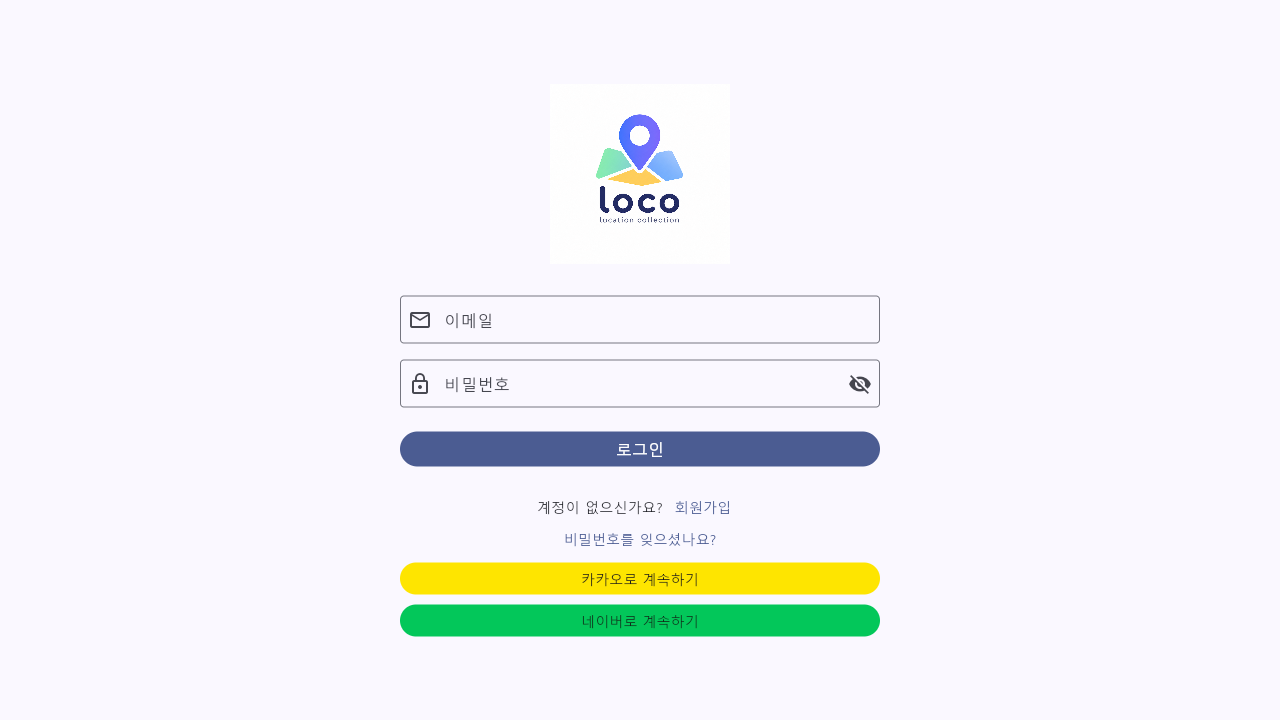
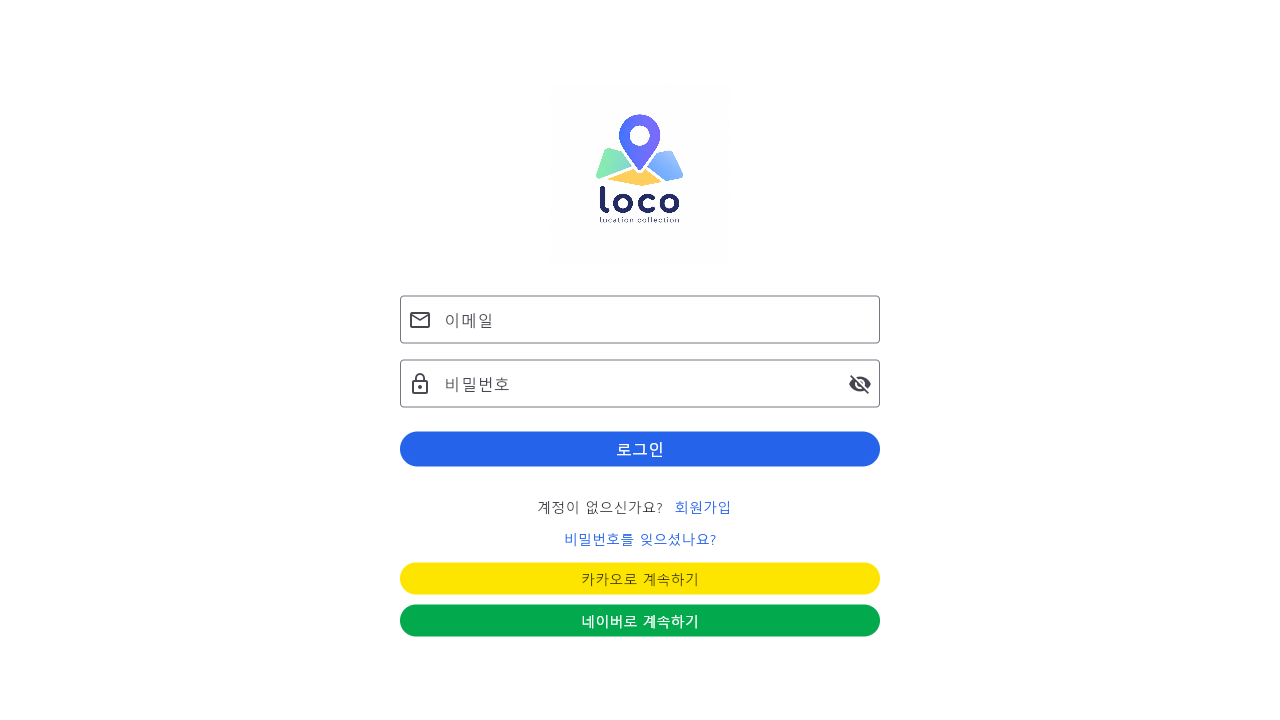
수정: 앱 브랜드 색과 소셜 버튼·지도 오류 안내 복원
ThemeData 역할을 유지하며 primary #2563EB와 흰색 surface·배경을 복원한다.
기본 버튼 대비 5.17:1을 검증하고 현재 공식 카카오·네이버 배경과 글자색을 적용한다.
네이버 3.09:1 대비는 공식 가이드 우선 예외로 문서화한다.
지도 로딩 실패의 기술적 안내는 debugPrint로만 남긴다.
Flutter after 20장만 갱신하며 before 및 CMS 캡처는 유지한다.

검증: Flutter 17 성공·0 실패, 8.72초.
analyze 오류 0·경고 0·기존 info 11, 분석 6.1초·전체 10.21초, 종료 코드 1.
JS 웹 profile 빌드 성공, 컴파일 46.9초·전체 50.05초.
캡처 픽셀에서 흰 배경·브랜드 파랑·공식 소셜 배경색 확인.
서버 소스·API 계약 변경 0건. 실제 외부 로그인·모바일 SDK 실패 경로 실기기 검증은 미실행.

Changed region(s): [[0.3125, 0.5806, 0.6875, 0.6722], [0.3125, 0.825, 0.6875, 0.8861], [0.4375, 0.7333, 0.5625, 0.7639]]

diff --git a/apps/mobile/lib/features/auth/screens/login_screen.dart b/apps/mobile/lib/features/auth/screens/login_screen.dart
@@ -182,12 +182,12 @@ class _LoginScreenState extends ConsumerState<LoginScreen> {
                                       padding: const EdgeInsets.symmetric(
                                           vertical: 13),
                                       backgroundColor: const Color(0xFFFEE500),
-                                      foregroundColor: const Color(0xFF191919),
+                                      foregroundColor: const Color(0xD9000000),
                                       side: BorderSide.none,
                                     ),
                                     child: const _OAuthButtonLabel(
                                       label: '카카오로 계속하기',
-                                      color: Color(0xFF191919),
+                                      color: Color(0xD9000000),
                                     ),
                                   ),
                                   const SizedBox(height: 10),
@@ -198,13 +198,13 @@ class _LoginScreenState extends ConsumerState<LoginScreen> {
                                     style: OutlinedButton.styleFrom(
                                       padding: const EdgeInsets.symmetric(
                                           vertical: 13),
-                                      backgroundColor: const Color(0xFF03C75A),
-                                      foregroundColor: const Color(0xFF102A18),
+                                      backgroundColor: const Color(0xFF03A94D),
+                                      foregroundColor: Colors.white,
                                       side: BorderSide.none,
                                     ),
                                     child: const _OAuthButtonLabel(
                                       label: '네이버로 계속하기',
-                                      color: Color(0xFF102A18),
+                                      color: Colors.white,
                                     ),
                                   ),
                                   // TODO: Google 로그인 버튼

diff --git a/apps/mobile/lib/shared/widgets/kakao_map_widget.dart b/apps/mobile/lib/shared/widgets/kakao_map_widget.dart
@@ -64,6 +64,12 @@ class _KakaoMapWidgetState extends State<KakaoMapWidget> {
     _mobileController = WebViewController()
       ..setJavaScriptMode(JavaScriptMode.unrestricted)
       ..addJavaScriptChannel(
+        'MapLoadFailureBridge',
+        onMessageReceived: (_) {
+          debugPrint('Kakao Maps SDK script load failed. Check network, app key and registered domain.');
+        },
+      )
+      ..addJavaScriptChannel(
         'FlutterBridge',
         onMessageReceived: (msg) {
           if (widget.onMarkerTap == null) return;
@@ -420,8 +426,9 @@ class _KakaoMapWidgetState extends State<KakaoMapWidget> {
         });
       };
       script.onerror = function() {
+        MapLoadFailureBridge.postMessage('sdk-load-failed');
         document.getElementById('map').innerHTML =
-          '<div style="display:flex;align-items:center;justify-content:center;height:100%;color:#9CA3AF;font-size:14px;">지도를 불러올 수 없습니다.<br>도메인 등록을 확인하세요.</div>';
+          '<div style="display:flex;align-items:center;justify-content:center;height:100%;color:#9CA3AF;font-size:14px;">지도를 불러오지 못했어요.<br>인터넷 연결을 확인하고 화면을 다시 열어 주세요.</div>';
       };
       document.head.appendChild(script);
     })();

diff --git a/apps/mobile/test/auth_copy_test.dart b/apps/mobile/test/auth_copy_test.dart
@@ -62,4 +62,18 @@ void main() {
     expect(find.textContaining('발송을 요청했어요'), findsOneWidget);
     expect(find.textContaining('전송했습니다'), findsNothing);
   });
+  testWidgets('간편 로그인은 공식 배경과 글자색을 표시한다', (tester) async {
+    await tester.pumpWidget(const ProviderScope(
+        child: MaterialApp(home: LoginScreen())));
+    await tester.pumpAndSettle();
+    for (final entry in [
+      ('카카오로 계속하기', const Color(0xFFFEE500), const Color(0xD9000000)),
+      ('네이버로 계속하기', const Color(0xFF03A94D), Colors.white),
+    ]) {
+      final button = tester.widget<OutlinedButton>(find.widgetWithText(OutlinedButton, entry.$1));
+      expect(button.style!.backgroundColor!.resolve({}), entry.$2);
+      expect(button.style!.foregroundColor!.resolve({}), entry.$3);
+      expect(tester.widget<Text>(find.text(entry.$1)).style!.color, entry.$3);
+    }
+  });
 }

diff --git a/apps/mobile/test/widget_test.dart b/apps/mobile/test/widget_test.dart
@@ -1,3 +1,4 @@
+import 'package:flutter/material.dart';
 import 'package:flutter_test/flutter_test.dart';
 import 'package:flutter_riverpod/flutter_riverpod.dart';
 import 'package:loco_mobile/app.dart';
@@ -9,5 +10,13 @@ void main() {
     );
     // SplashScreen이 렌더링되는지 확인
     expect(find.text('LOCO'), findsWidgets);
+    final theme = Theme.of(tester.element(find.text('LOCO').first));
+    expect(theme.colorScheme.primary, const Color(0xFF2563EB));
+    expect(theme.colorScheme.onPrimary, Colors.white);
+    expect(theme.colorScheme.surface, Colors.white);
+    expect(theme.scaffoldBackgroundColor, Colors.white);
+    final contrast = (theme.colorScheme.onPrimary.computeLuminance() + 0.05) /
+        (theme.colorScheme.primary.computeLuminance() + 0.05);
+    expect(contrast, greaterThanOrEqualTo(4.5));
   });
 }

diff --git a/apps/mobile/lib/app.dart b/apps/mobile/lib/app.dart
@@ -11,6 +11,10 @@ class LocoApp extends ConsumerWidget {
     final router = ref.watch(routerProvider);
     final colors = ColorScheme.fromSeed(
       seedColor: const Color(0xFF2563EB), brightness: Brightness.light,
+    ).copyWith(
+      primary: const Color(0xFF2563EB),
+      onPrimary: Colors.white,
+      surface: Colors.white,
     );
 
     return MaterialApp.router(
@@ -21,6 +25,7 @@ class LocoApp extends ConsumerWidget {
       localizationsDelegates: GlobalMaterialLocalizations.delegates,
       theme: ThemeData(
         colorScheme: colors,
+        scaffoldBackgroundColor: colors.surface,
         appBarTheme: AppBarTheme(
           elevation: 0,
           backgroundColor: colors.surface,

diff --git a/UX_COPY_CHANGES.md b/UX_COPY_CHANGES.md
@@ -19,7 +19,7 @@
 
 `user_message.dart`는 화면 표현만 담당한다. 네트워크 실패는 반영 여부 확인도 안내한다. 장소 저장 후 사진 전송 실패 시 요청을 자동으로 재전송하지 않는다. 지도방·장소·권한 enum과 전송 값은 유지한다.
 
-색상은 수정 화면의 오류/보조 글씨/표면/기본 동작을 ThemeData 역할로 바꿨다. 11~12px 보조 글씨는 `textTheme.bodySmall` 역할을 사용한다. 소셜 브랜드 배경·사진 위 오버레이 등 의미 있는 색은 유지하고 네이버 버튼 글자는 어두운 색으로 대비를 높였다. 다크 모드·큰 파일 분해는 포함하지 않는다.
+색상은 수정 화면의 오류/보조 글씨/표면/기본 동작을 ThemeData 역할로 바꿨다. 11~12px 보조 글씨는 `textTheme.bodySmall` 역할을 사용한다. 소셜 브랜드 배경·사진 위 오버레이 등 의미 있는 색은 별도로 지정한다. 네이버의 어두운 글자는 후속 시각 회귀 수정에서 공식 가이드의 흰색으로 복원했다(아래 대비 예외 참조). 다크 모드·큰 파일 분해는 포함하지 않는다.
 
 `web/index.html`은 원본에 없던 Flutter 웹 진입 파일이다. `CardThemeData`로 현재 Flutter SDK와 호환된다. 테스트 전용 이미지 선택기에는 앱에서 이미 사용하는 image_picker의 플랫폼 인터페이스를 dev dependency로 명시했다. 새 UI 라이브러리는 없다.
 
@@ -97,3 +97,26 @@
 큰 화면 파일 분해, 다크 모드, 새 UI/상태 관리 라이브러리, 코드 재전송은 구현하지 않았다. Flutter 웹 전용 API의 장기 대체와 실제 모바일 기기·스크린리더 검증은 후속 작업이다.
 
 프로필 수정 화면에 직접 주소로 진입할 때 기존 닉네임이 비어 보이는 현상은 before/after 양쪽에서 관찰했다. 비동기 사용자 정보의 초기 폼 반영은 후속 검토 후보이며 이번 문구 변경으로 해결했다고 주장하지 않는다.
+
+## 시각 회귀 3건 후속 수정
+
+| 위치 | 직전 after | 수정 |
+|---|---|---|
+| 기본 버튼·배경 | fromSeed 생성 primary와 연보라 surface | ThemeData 역할은 유지하고 copyWith로 primary #2563EB, onPrimary #FFFFFF, surface·Scaffold 배경 #FFFFFF 지정 |
+| 카카오 로그인 | #FEE500 / #191919 | 공식 #FEE500 / 검정 85%(8비트 alpha D9) |
+| 네이버 로그인 | #03C75A / #102A18 | 현재 공식 #03A94D / #FFFFFF |
+| 지도 로딩 실패 | 지도를 불러올 수 없습니다. 도메인 등록을 확인하세요. | 지도를 불러오지 못했어요. 인터넷 연결을 확인하고 화면을 다시 열어 주세요. |
+
+공식 가이드 확인일: 2026-11-11. [카카오 로그인 디자인 가이드](https://developers.kakao.com/docs/ko/kakaologin/design-guide)는 노랑 배경·검정 85% 레이블을 지정한다. [네이버 로그인 버튼 사용 가이드](https://developers.naver.com/docs/login/bi/bi.md)는 기존 #03C75A 대신 #03A94D 배경과 흰 레이블을 지정한다. 이번 변경은 요청한 배경·글자색 범위이며 소셜 심볼·전체 버튼 디자인의 재구성은 포함하지 않는다.
+
+상대 휘도 대비 `(L밝음+0.05)/(L어두움+0.05)`로 계산: 기본 버튼 **5.17:1**, 카카오(알파 합성 후 약 #262200) **12.52:1**, 네이버 **3.09:1**. 기본 버튼은 4.5:1 이상이며 실제 앱 테마를 읽는 위젯 테스트로 고정했다. **예외:** 네이버 일반 크기 글자는 4.5:1에 못 미치지만 사용자 승인대로 공식 색상을 우선한다. 이를 접근성 기준 충족으로 표기하지 않는다. 비활성·호버 상태까지 이 수치를 일반화하지 않는다.
+
+지도 SDK 로딩 실패는 기존 모바일 WebView 오류 경로에서 사용자 문구만 노출한다. 고정 오류 이벤트를 Dart 채널로 전달해 `debugPrint`에 네트워크·앱 키·등록 도메인 점검 안내만 남긴다. 키 값·주소·예외 원문을 전달하거나 기록하지 않는다. 실제 SDK·OAuth 요청이나 모바일 실기기의 실패 재현은 이번 검증에 포함하지 않는다.
+
+### 후속 검증 결과
+
+- `flutter test`: **17 성공·0 실패**, 명령 전체 **8.72초**. 기존 16건에 공식 소셜 색상 검사 1건을 추가하고 기존 앱 렌더링 검사에 브랜드·표면·대비 검증을 보완했다.
+- `flutter analyze`: **오류 0·경고 0·기존 info 11**, 분석 **6.1초** / 명령 전체 **10.21초**, 종료 코드 1(info 포함 정책). info를 숨기거나 무경고 통과로 바꾸어 표기하지 않는다.
+- 기존과 같은 JS 웹 profile 빌드 성공: 컴파일 **46.9초**, 명령 전체 **50.05초**. 기존 secure-storage 웹 의존성의 Wasm dry-run 경고는 남아 있다.
+- 전역 앱 테마 변경의 영향을 받는 Flutter after 20장만 같은 로컬 대역으로 재촬영. before 26장 및 CMS after 6장은 수정하지 않는다.
+- 이 후속 수정은 Flutter만 변경한다. CMS는 앞 단계의 Vitest 29건·Chromium 13건 결과를 유지하며 재실행하지 않았다. 서버 코드·API 계약 변경 **0건**.
